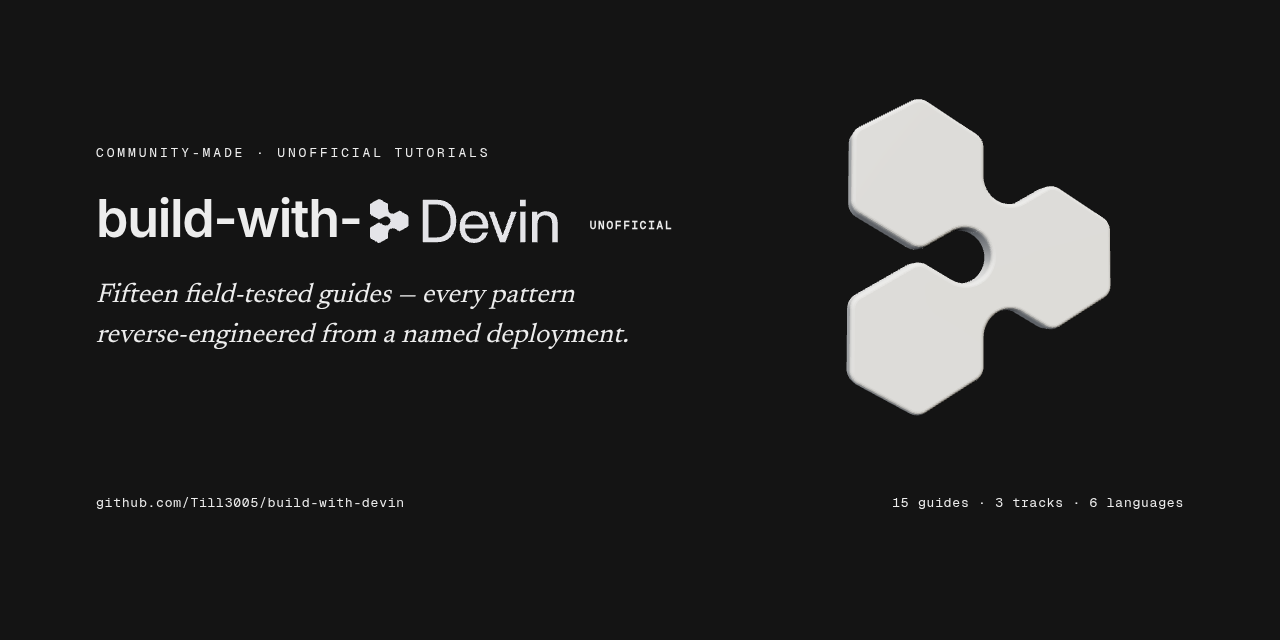
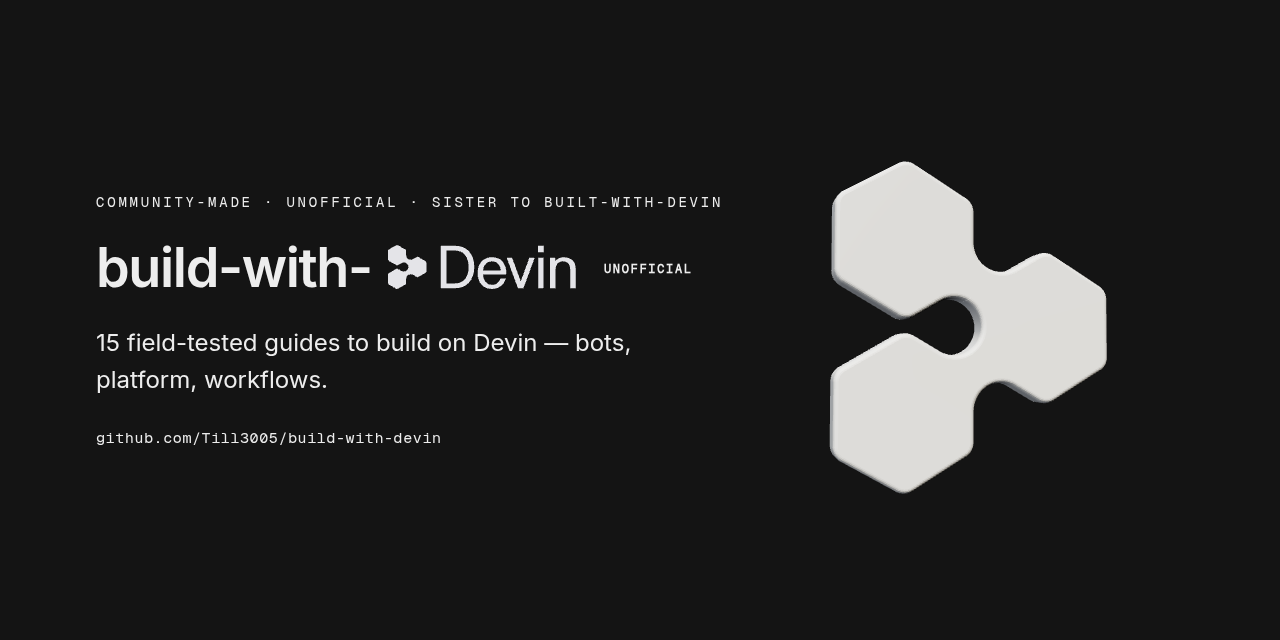
Cover v3: v1 layout, tighter type scale; README adds Contents nav + back-to-top

diff --git a/README.md b/README.md
@@ -18,11 +18,18 @@
 
 </div>
 
-> *Unofficial community project — not affiliated with, endorsed by, or sponsored by Cognition AI. "Devin" is a trademark of Cognition AI. Brand assets are used under the official kit at [devin.ai/brand](https://devin.ai/brand) — *"ready for whatever you're making."* Official docs: [docs.devin.ai](https://docs.devin.ai).*
+> *Unofficial community project — not affiliated with, endorsed by, or sponsored by Cognition AI. "Devin" is a trademark of Cognition AI. Brand assets are used under the official kit at [devin.ai/brand](https://devin.ai/brand) — "ready for whatever you're making." Official docs: [docs.devin.ai](https://docs.devin.ai).*
 
 **Build with Devin** is a tutorial collection: every guide takes a *documented, real-world* Devin deployment — from Cognition's own launch fleet to published customer cases — and reverse-engineers it into steps you can reproduce on your own account. No hypothetical demos; every pattern here is backed by a named deployment with reported numbers.
 
 **Pair it with [built-with-devin](https://github.com/Till3005/built-with-devin)** — the companion registry of everything the community and Cognition have shipped. Registry answers *what exists*; this repo answers *how to build it*.
+
+## Contents
+
+- [Devin Bots](#devin-bots) — guides 1–5 + the outcome-prompt reference
+- [Platform](#platform) — guides 6–10: automations, enterprise, design, playbooks, Apps
+- [Workflows](#workflows) — guides 11–14: migrations, CLI, cookbook, field reports
+- [How to use this repo](#how-to-use-this-repo) · [Conventions](#conventions) · [Contributing](#contributing)
 
 ```mermaid
 flowchart LR
@@ -82,6 +89,8 @@ flowchart LR
 | 13 | [Official use-case cookbook](guides/official-cookbook.md) | 40+ documented recipes — hygiene loops, incidents, quality | [Use-case gallery](https://docs.devin.ai/use-cases/gallery/index.md) | Start here |
 | 14 | [Community field reports](guides/community-field-reports.md) | What real teams learned — wins, failures, and named deployments with numbers | 15+ published hands-on accounts | Start here |
 
+<p align="right"><a href="#readme">back to top</a></p>
+
 ---
 
 ## How to use this repo
@@ -90,6 +99,8 @@ flowchart LR
 - **Want quick wins?** Guide 13's scheduled-hygiene recipes are the cheapest first deployment.
 - **Running a team?** Guides 4, 7 and 9 are written for you.
 - Every guide ends with **Sources** — the launch post, docs page, or write-up the pattern was distilled from — and **Verify it**, the check that tells you the reproduction worked.
+
+<p align="right"><a href="#readme">back to top</a></p>
 
 ---
 

diff --git a/README.ja.md b/README.ja.md
@@ -80,6 +80,8 @@ flowchart LR
 | 13 | [公式ユースケースクックブック](guides/official-cookbook.md) | 40 以上の文書化レシピ —— 衛生ループ、インシデント、品質 | [ユースケースギャラリー](https://docs.devin.ai/use-cases/gallery/index.md) | ここから |
 | 14 | [コミュニティ実践レポート](guides/community-field-reports.md) | 実チームが学んだこと —— 成功、失敗、数字つきの実名導入 | 15 以上の公開実践記 | ここから |
 
+<p align="right"><a href="#readme">back to top</a></p>
+
 ---
 
 ## このリポジトリの使い方
@@ -88,6 +90,8 @@ flowchart LR
 - **すぐ成果が欲しい？** ガイド 13 のスケジュール衛生レシピが最も安い最初の導入。
 - **チームを率いている？** ガイド 4、7、9 があなた向け。
 - 各ガイドの末尾には **Sources**（パターンの蒸留元となる発表・ドキュメント・実践記）と **Verify it**（再現が成功したかを示すチェック）があります。
+
+<p align="right"><a href="#readme">back to top</a></p>
 
 ---
 

diff --git a/README.es.md b/README.es.md
@@ -80,6 +80,8 @@ flowchart LR
 | 13 | [Cookbook oficial de casos de uso](guides/official-cookbook.md) | 40+ recetas documentadas — bucles de higiene, incidentes, calidad | [Galería de casos de uso](https://docs.devin.ai/use-cases/gallery/index.md) | Empieza aquí |
 | 14 | [Informes de campo de la comunidad](guides/community-field-reports.md) | Lo que equipos reales aprendieron — aciertos, fallos y despliegues nombrados con cifras | 15+ relatos hands-on publicados | Empieza aquí |
 
+<p align="right"><a href="#readme">back to top</a></p>
+
 ---
 
 ## Cómo usar este repositorio
@@ -88,6 +90,8 @@ flowchart LR
 - **¿Quieres victorias rápidas?** Las recetas de higiene programada de la guía 13 son el despliegue inicial más barato.
 - **¿Diriges un equipo?** Las guías 4, 7 y 9 están escritas para ti.
 - Cada guía termina con **Sources** — el post de lanzamiento, página de docs o relato del que se destiló el patrón — y **Verify it**, la comprobación que confirma que la reproducción funcionó.
+
+<p align="right"><a href="#readme">back to top</a></p>
 
 ---
 

diff --git a/README.pt.md b/README.pt.md
@@ -80,6 +80,8 @@ flowchart LR
 | 13 | [Cookbook oficial de casos de uso](guides/official-cookbook.md) | 40+ receitas documentadas — loops de higiene, incidentes, qualidade | [Galeria de casos de uso](https://docs.devin.ai/use-cases/gallery/index.md) | Comece aqui |
 | 14 | [Relatos de campo da comunidade](guides/community-field-reports.md) | O que times reais aprenderam — vitórias, falhas e implantações nomeadas com números | 15+ relatos hands-on publicados | Comece aqui |
 
+<p align="right"><a href="#readme">back to top</a></p>
+
 ---
 
 ## Como usar este repositório
@@ -88,6 +90,8 @@ flowchart LR
 - **Quer vitórias rápidas?** As receitas de higiene agendada do guia 13 são a implantação inicial mais barata.
 - **Gerenciando um time?** Os guias 4, 7 e 9 foram escritos para você.
 - Todo guia termina com **Sources** — o post de lançamento, página de docs ou relato do qual o padrão foi destilado — e **Verify it**, a checagem que confirma que a reprodução funcionou.
+
+<p align="right"><a href="#readme">back to top</a></p>
 
 ---
 

diff --git a/README.de.md b/README.de.md
@@ -80,6 +80,8 @@ flowchart LR
 | 13 | [Offizielles Use-Case-Cookbook](guides/official-cookbook.md) | 40+ dokumentierte Rezepte — Hygiene-Loops, Incidents, Qualität | [Use-Case-Galerie](https://docs.devin.ai/use-cases/gallery/index.md) | Starte hier |
 | 14 | [Community-Feldberichte](guides/community-field-reports.md) | Was echte Teams gelernt haben — Erfolge, Misserfolge, Deployments mit Zahlen | 15+ veröffentlichte Praxisberichte | Starte hier |
 
+<p align="right"><a href="#readme">back to top</a></p>
+
 ---
 
 ## So nutzt du dieses Repo
@@ -88,6 +90,8 @@ flowchart LR
 - **Schnelle Erfolge?** Die geplanten Hygiene-Rezepte aus Guide 13 sind der billigste Einstieg.
 - **Team-Leitung?** Guides 4, 7 und 9 sind für dich geschrieben.
 - Jeder Guide endet mit **Sources** — dem Launch-Post, Docs-Seite oder Report, aus dem das Muster destilliert wurde — und **Verify it**, der Prüfung, die bestätigt, dass die Reproduktion funktioniert hat.
+
+<p align="right"><a href="#readme">back to top</a></p>
 
 ---
 

diff --git a/README.zh.md b/README.zh.md
@@ -81,6 +81,8 @@ flowchart LR
 | 13 | [官方用例食谱](guides/zh/official-cookbook.md) | 40+ 个有据可查的配方 —— 卫生循环、事故响应、质量 | [用例 gallery](https://docs.devin.ai/use-cases/gallery/index.md) | 从这里开始 |
 | 14 | [社区实战报告](guides/zh/community-field-reports.md) | 真实团队的经验 —— 赢的、败的、带数字的实名部署 | 15+ 篇已发布实操记述 | 从这里开始 |
 
+<p align="right"><a href="#readme">back to top</a></p>
+
 ---
 
 ## 如何使用本库
@@ -89,6 +91,8 @@ flowchart LR
 - **想要快速见效？** 指南 13 的定时卫生配方是最便宜的第一个部署。
 - **带团队？** 指南 4、7、9 是为你写的。
 - 每篇指南以 **Sources** 收尾 —— 模式蒸馏自哪篇发布帖/文档/记述 —— 以及 **Verify it**，告诉你复现是否成功的检查项。
+
+<p align="right"><a href="#readme">back to top</a></p>
 
 ---
 
